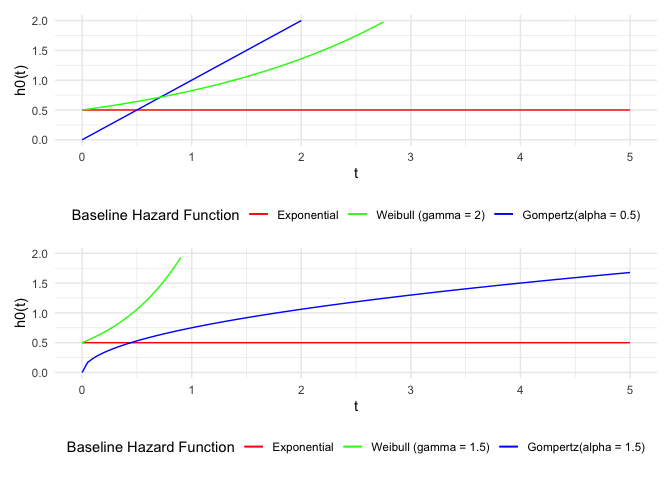
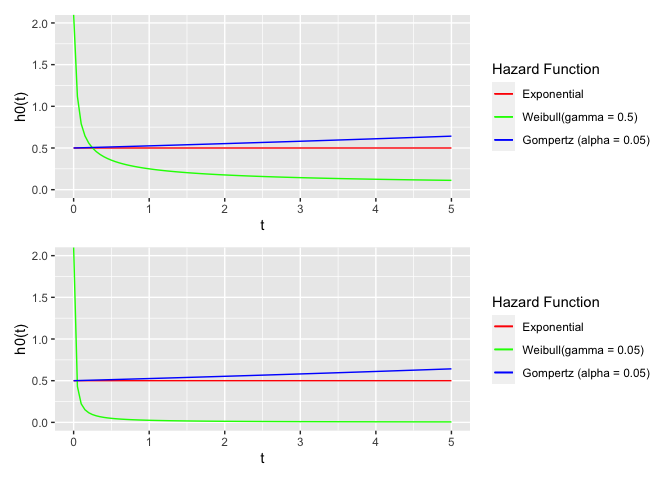
hazard function graph

diff --git a/final_report.md b/final_report.md
@@ -21,112 +21,54 @@ library(patchwork)
 
 ``` r
 # parameter and seed
-lambda <- 0.5
 set.seed(2023)
 
-
 # gamma = 2, alpha = 2
-exp_haz <- function(t, lambda = 0.5) lambda * 1 * t^0
-weibull_haz <- function(t, lambda = 0.5, gamma = 2) lambda * gamma * t^(gamma - 1)
-gompertz_haz <- function(t, lambda = 0.5, gamma = 2) lambda * exp(gamma* t)
+exp_haz <- function(t, lambda = 0.5) {lambda * 1 * t^0}
+weibull_haz_2 <- function(t, lambda = 0.5) lambda * 2 * t^(2 - 1)
+gompertz_haz_2 <- function(t, lambda = 0.5) lambda * exp(2* t)
 
-p <- ggplot(data = data.frame(x = 0), mapping = aes(x = x))
-p <- p + 
-  stat_function(fun = exp_haz, aes(col = "exponential")) + 
-  stat_function(fun = weibull_haz, aes(col = "weibull (gamma = 2)")) + 
-  stat_function(fun = gompertz_haz, aes(col = "pink")) + 
-  xlim(0,5) + 
-  ylim(0,2) + 
-  theme_minimal() + 
-  scale_color_manual(name = "Baseline Hazard Function", 
-                     values = c("red", "green", "blue"), 
-                     labels = c("Exponential", "Weibull (gamma = 2)", "Gompertz(alpha = 2)" )) + 
-  theme(legend.position="bottom") + 
-  labs(x = "t", y = "h0(t)")
+p1 <- ggplot(data.frame(x=c(0, 5)), aes(x=x)) + 
+    geom_path(aes(colour="red"), stat="function", fun=exp_haz)+
+    geom_path(aes(colour="green"), stat="function", fun=weibull_haz_2)+
+    geom_path(aes(colour="blue"), stat="function", fun=gompertz_haz_2) +
+    scale_colour_identity("Hazard Function", guide="legend", 
+                          labels = c("Exponential", "Weibull(gamma = 2)", "Gompertz (alpha = 2)"), 
+                          breaks = c("red", "green", "blue")) +
+    labs(x = "t",
+         y = "h0(t)") + ylim(0,2)
+
+# gamma = 1.5, alpha = 1.5
+exp_haz <- function(t, lambda = 0.5) lambda * 1 * t^0
+weibull_haz_1.5 <- function(t, lambda = 0.5) lambda * 1.5 * t^(1.5 - 1)
+gompertz_haz_1.5 <- function(t, lambda = 0.5) lambda * exp(1.5* t)
+
+p2 <- ggplot(data.frame(x=c(0, 5)), aes(x=x)) + 
+    geom_path(aes(colour="red"), stat="function", fun=exp_haz)+
+    geom_path(aes(colour="green"), stat="function", fun=weibull_haz_1.5)+
+    geom_path(aes(colour="blue"), stat="function", fun=gompertz_haz_1.5) +
+    scale_colour_identity("Hazard Function", guide="legend", 
+                          labels = c("Exponential", "Weibull(gamma = 1.5)", "Gompertz (alpha = 1.5)"), 
+                          breaks = c("red", "green", "blue")) +
+    labs(x = "t",
+         y = "h0(t)") + ylim(0,2) 
 
 # gamma = 0.05, alpha = 0.05
 exp_haz <- function(t, lambda = 0.5) lambda * 1 * t^0
-weibull_haz <- function(t, lambda = 0.5, gamma = 0.05) lambda * gamma * t^(gamma - 1)
-gompertz_haz <- function(t, lambda = 0.5, gamma = 0.05) lambda * exp(gamma* t)
+weibull_haz_0.05 <- function(t, lambda = 0.5) lambda * 0.05 * t^(0.05 - 1)
+gompertz_haz_0.05 <- function(t, lambda = 0.5) lambda * exp(0.05 * t)
 
-p1 <- ggplot(data = data.frame(x = 0), mapping = aes(x = x))
-p1 <- p1 + 
-  stat_function(fun = exp_haz, aes(col = "exponential")) + 
-  stat_function(fun = weibull_haz, aes(col = "weibull (gamma = 0.05)")) + 
-  stat_function(fun = gompertz_haz, aes(col = "pink")) + 
-  xlim(0,5) + 
-  ylim(0,2) + 
-  theme_minimal() + 
-  scale_color_manual(name = "Baseline Hazard Function", 
-                     values = c("red", "green", "blue"), 
-                     labels = c("Exponential", "Weibull (gamma = 0.05)", "Gompertz(alpha = 0.05)" )) + 
-  theme(legend.position="bottom") + 
-  labs(x = "t", y = "h0(t)")
+p3 <- ggplot(data.frame(x=c(0, 5)), aes(x=x)) + 
+    geom_path(aes(colour="red"), stat="function", fun=exp_haz) +
+    geom_path(aes(colour="green"), stat="function", fun=weibull_haz_0.05) +
+    geom_path(aes(colour="blue"), stat="function", fun=gompertz_haz_0.05) +
+    scale_colour_identity("Hazard Function", guide="legend", 
+                          labels = c("Exponential", "Weibull(gamma = 0.05)", "Gompertz (alpha = 0.05)"), 
+                          breaks = c("red", "green", "blue")) +
+    labs(x = "t",
+         y = "h0(t)") + ylim(0,2) 
 
-# gamma = 1, alpha = 1
-exp_haz2 <- function(t, lambda = 0.5) lambda * 1 * t^0
-weibull_haz2 <- function(t, lambda = 0.5, gamma = 1) lambda * gamma * t^(gamma - 1)
-gompertz_haz2 <- function(t, lambda = 0.5, gamma = 1) lambda * exp(gamma* t)
-
-p2 <- ggplot(data = data.frame(x = 0), mapping = aes(x = x))
-p2 <- p2 + 
-  stat_function(fun = exp_haz2, aes(col = "exponential")) + 
-  stat_function(fun = weibull_haz2, aes(col = "weibull (gamma = 1)")) + 
-  stat_function(fun = gompertz_haz2, aes(col = "pink")) + 
-  xlim(0,5) + 
-  ylim(0,2) + 
-  theme_minimal() + 
-  scale_color_manual(name = "Baseline Hazard Function", 
-                     values = c("red", "green", "blue"), 
-                     labels = c("Exponential", "Weibull (gamma = 1)", "Gompertz(alpha = 1)" )) + 
-  theme(legend.position="bottom") + 
-  labs(x = "t", y = "h0(t)")
-
-# gamma = 2, alpha = 0.5
-exp_haz3 <- function(t, lambda = 0.5) lambda * 1 * t^0
-weibull_haz3 <- function(t, lambda = 0.5, gamma = 2) lambda * gamma * t^(gamma - 1)
-gompertz_haz3 <- function(t, lambda = 0.5, gamma = 0.5) lambda * exp(gamma* t)
-
-p3 <- ggplot(data = data.frame(x = 0), mapping = aes(x = x))
-p3 <- p3 + 
-  stat_function(fun = exp_haz3, aes(col = "exponential")) + 
-  stat_function(fun = weibull_haz3, aes(col = "weibull (gamma = 2)")) + 
-  stat_function(fun = gompertz_haz3, aes(col = "pink")) + 
-  xlim(0,5) + 
-  ylim(0,2) + 
-  theme_minimal() + 
-  scale_color_manual(name = "Baseline Hazard Function", 
-                     values = c("red", "green", "blue"), 
-                     labels = c("Exponential", "Weibull (gamma = 2)", "Gompertz(alpha = 0.5)" )) + 
-  theme(legend.position="bottom") + 
-  labs(x = "t", y = "h0(t)")
-
-# gamma = 1.5, alpha = 1.5
-exp_haz3 <- function(t, lambda = 0.5) lambda * 1 * t^0
-weibull_haz3 <- function(t, lambda = 0.5, gamma = 1.5) lambda * gamma * t^(gamma - 1)
-gompertz_haz3 <- function(t, lambda = 0.5, gamma = 1.5) lambda * exp(gamma* t)
-
-p4 <- ggplot(data = data.frame(x = 0), mapping = aes(x = x))
-p4 <- p4 + 
-  stat_function(fun = exp_haz3, aes(col = "exponential")) + 
-  stat_function(fun = weibull_haz3, aes(col = "weibull (gamma = 1.5)")) + 
-  stat_function(fun = gompertz_haz3, aes(col = "pink")) + 
-  xlim(0,5) + 
-  ylim(0,2) + 
-  theme_minimal() + 
-  scale_color_manual(name = "Baseline Hazard Function", 
-                     values = c("red", "green", "blue"), 
-                     labels = c("Exponential", "Weibull (gamma = 1.5)", "Gompertz(alpha = 1.5)" )) + 
-  theme(legend.position="bottom") + 
-  labs(x = "t", y = "h0(t)")
-
-(p/p3)
+(p1/p2/p3)
 ```
 
-![](Project1_final_report_files/figure-gfm/unnamed-chunk-2-1.png)<!-- -->
-
-``` r
-(p3/p4)
-```
-
-![](Project1_final_report_files/figure-gfm/unnamed-chunk-2-2.png)<!-- -->
+![](final_report_files/figure-gfm/unnamed-chunk-2-1.png)<!-- -->
